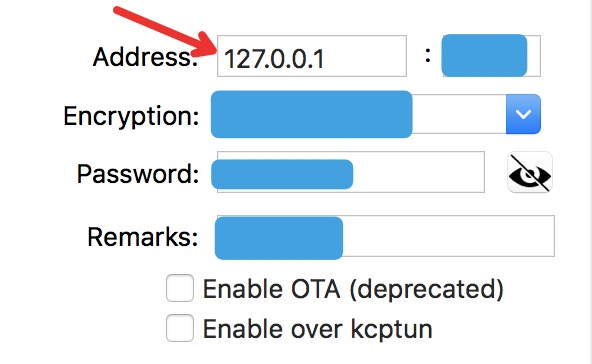
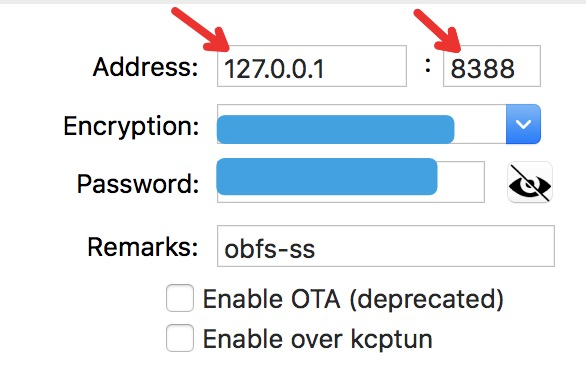
fix

Changed region(s): [[0.0922, 0.0, 0.9522, 0.967], [0.7986, 0.4231, 0.8294, 0.5742]]

diff --git a/cn/ss_mac_osx_obfs_教程.md b/cn/ss_mac_osx_obfs_教程.md
@@ -76,7 +76,7 @@ Mac OS x的shadowsocks obfs混淆教程有点trick，已更新初版！
 - 重定向ss流量，并启动ss客户端
   - 右键打开ss客户端菜单->'服务器配置...'/ 'Server Preferences...' -> 服务器配置信息如截图
     - <img src="../files/img/obfs/mac/mac.ss.host.port.png"  width="250" alt="mac ss host port" />
-    - 修改服务器地址为```127.0.0.1```
+    - 修改服务器地址为```127.0.0.1```，端口为```8388```
       - <img src="../files/img/obfs/mac/mac.ss.host.local.png"  width="250" alt="mac ss host port" />
     - 确认保存
       - <img src="../files/img/obfs/mac/mac.ss.host.ok.png"  width="250" alt="mac save config" />
